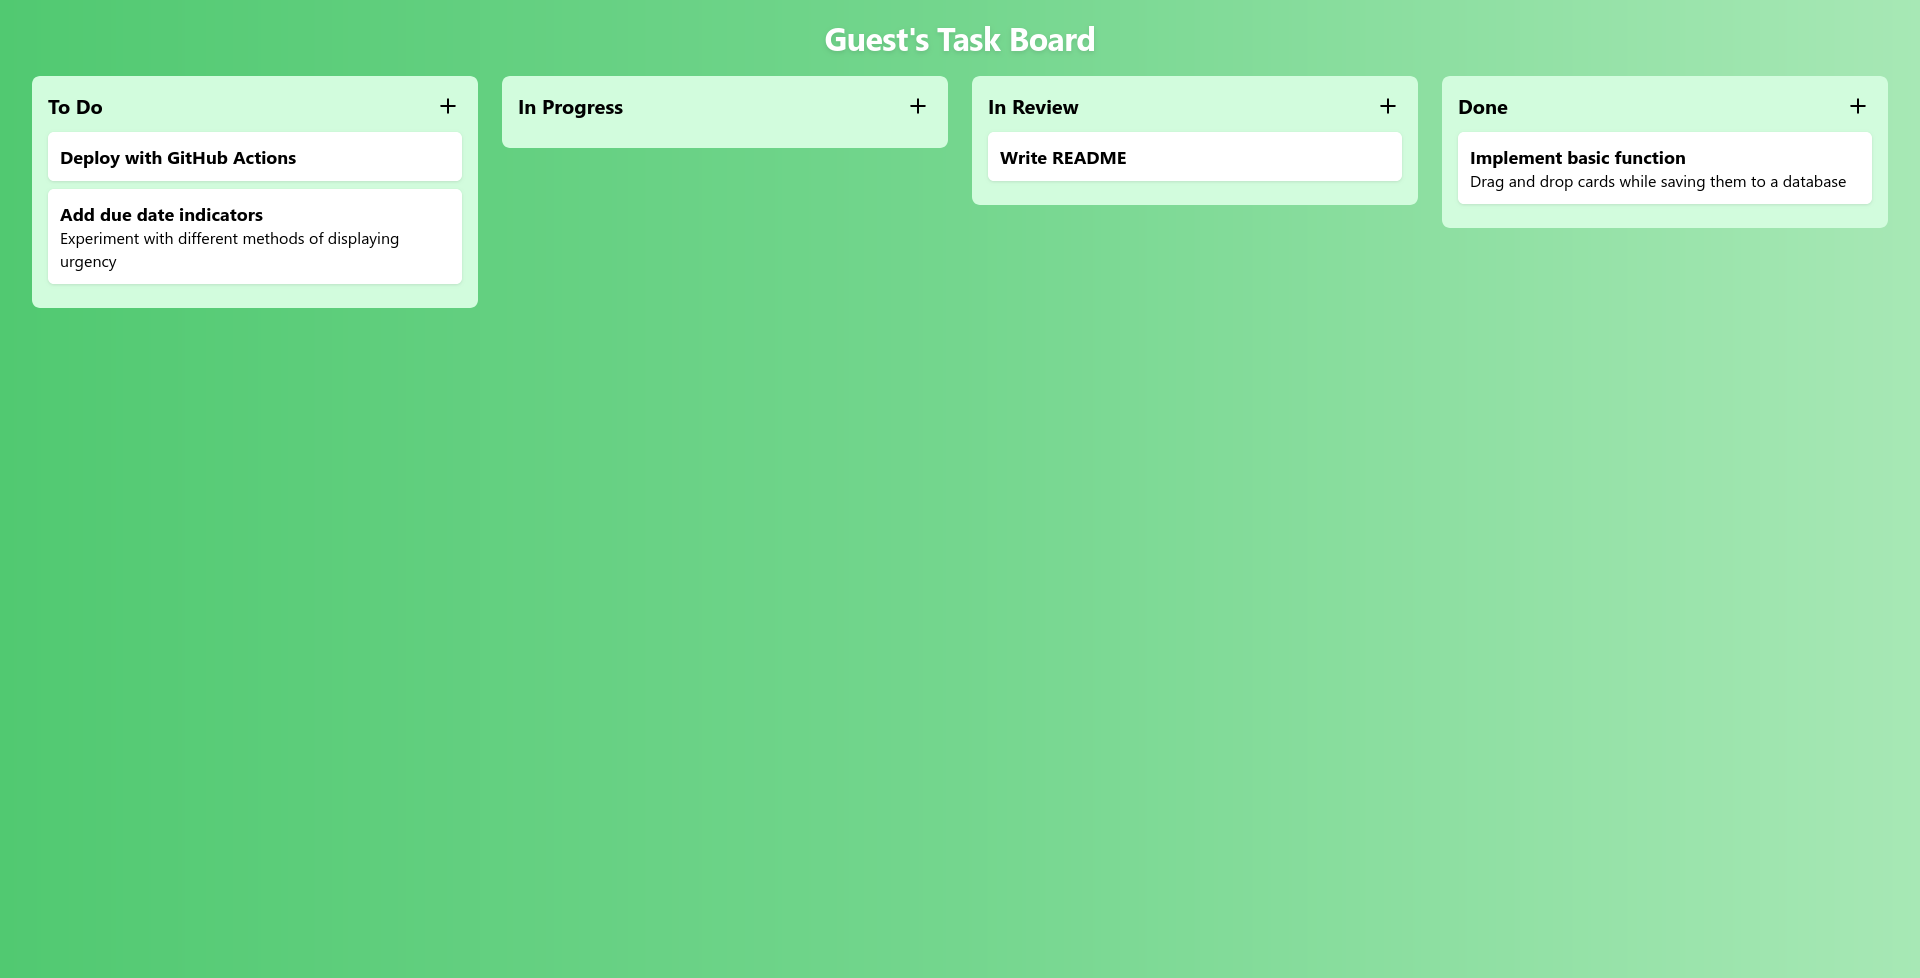
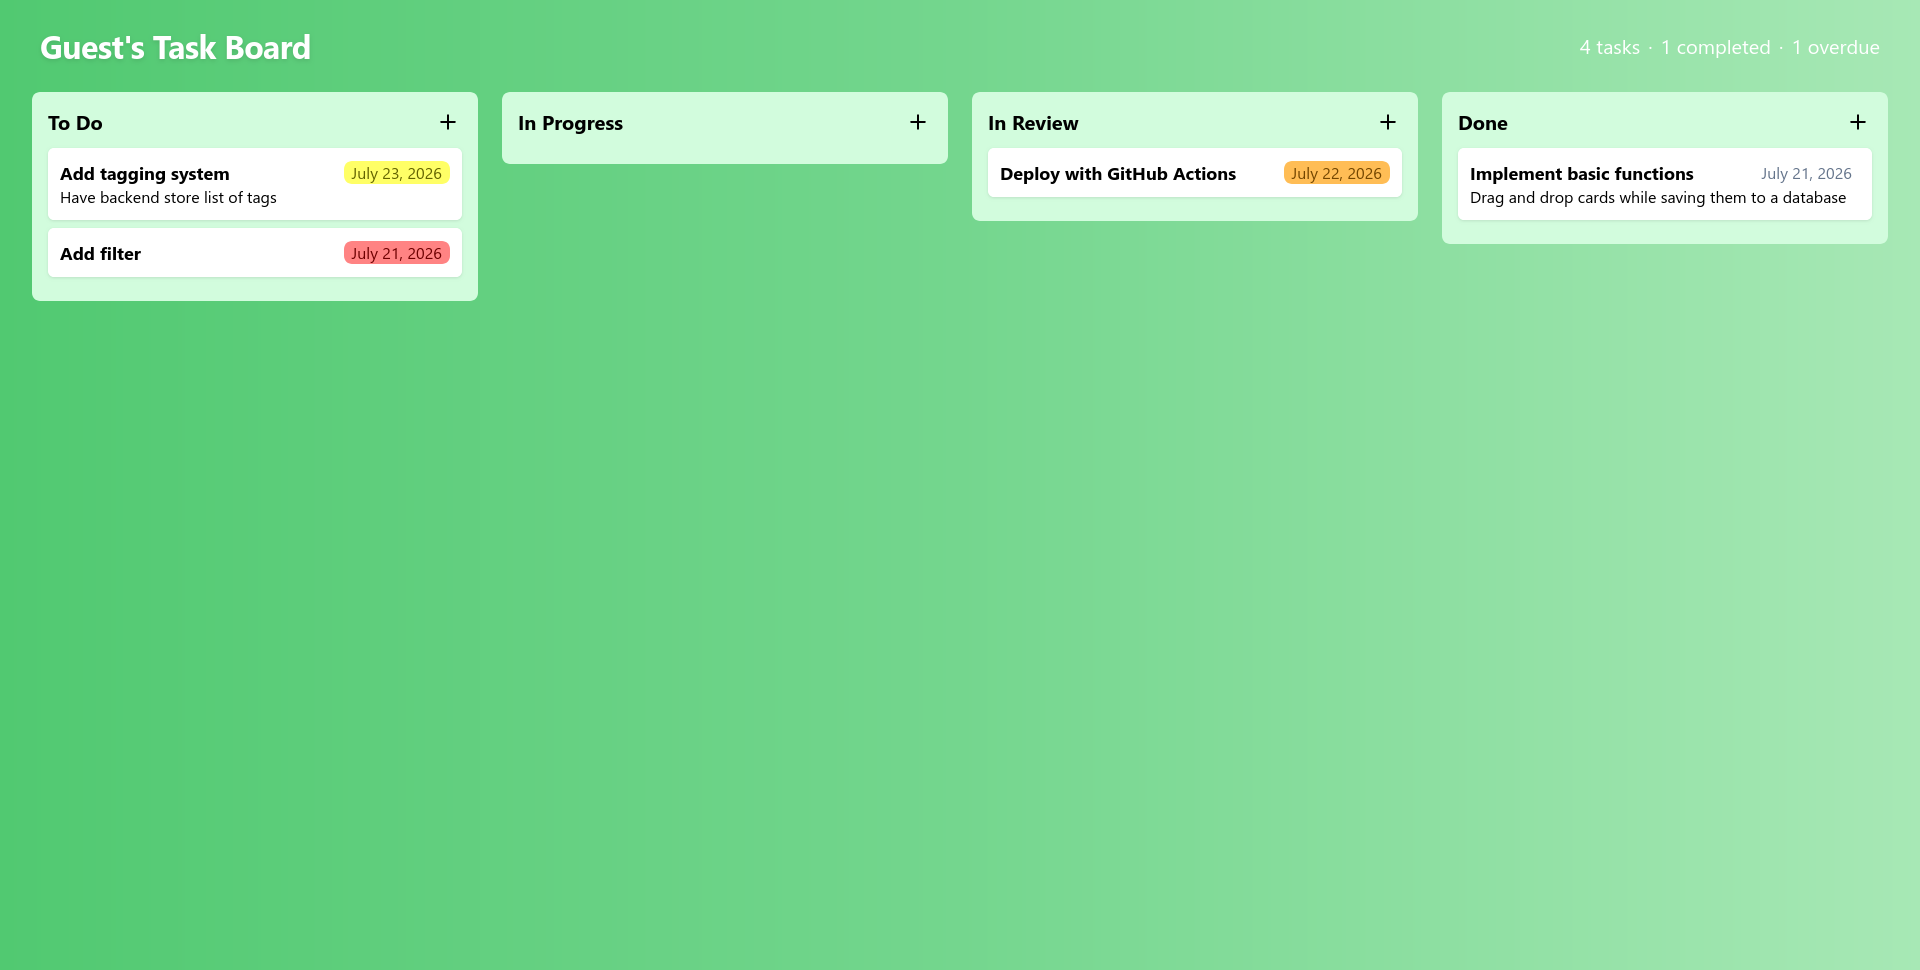
Added board summary

Changed region(s): [[0.0, 0.0309, 1.0, 0.3402]]

diff --git a/src/components/Board.tsx b/src/components/Board.tsx
@@ -12,11 +12,18 @@ import styles from "../css/Board.module.css";
  * But that doesn't make sense for now since no option to add or edit columns exists
 */
 const defaultCols = [
-  { id: "todo", title: "To Do" },
-  { id: "in-progress", title: "In Progress" },
-  { id: "in-review", title: "In Review" },
-  { id: "done", title: "Done" },
+	{ id: "todo", title: "To Do" },
+	{ id: "in-progress", title: "In Progress" },
+	{ id: "in-review", title: "In Review" },
+	{ id: "done", title: "Done" },
 ];
+// Find overdue tasks
+function isOverdue(dueDateStr: string): boolean {
+	const due = new Date(dueDateStr + "T00:00:00");
+	const today = new Date();
+	today.setHours(0, 0, 0, 0);
+	return due.getTime() < today.getTime();
+}
 
 export default function Board() {
 	const [activeCard, setActiveCard] = useState<Task | null>(null); // Task being acted upon
@@ -26,8 +33,16 @@ export default function Board() {
 	const [openPopover, setOpenPopover] = useState<string | null>(null); // Track if a popover is open
 	const [userId, setUserId] = useState<string | null>(null); // User's id as a string
 	const [layout, setLayout] = useState<"row" | "column">("row"); // For setting vertical or horizontal layout based on screen size
+	const boardRef = useRef<HTMLDivElement>(null); // For responsive board layout
+	
 
-	const boardRef = useRef<HTMLDivElement>(null);
+	// Calculate board summary
+	const totalTasks = Object.values(columns).reduce((sum, arr) => sum + arr.length, 0);
+	const completedTasks = (columns["done"] ?? []).length;
+	const overdueTasks = Object.entries(columns)
+		.filter(([status]) => status !== "done")
+		.flatMap(([, tasks]) => tasks)
+		.filter(t => t.due_date && isOverdue(t.due_date)).length;
 
 	// Move a card and update columns
 	const moveCard = useCallback((cardId: string, columnFromId: string, columnToId: string) => {
@@ -136,7 +151,6 @@ export default function Board() {
 		})();
 	}, []);
 
-
 	// Decide to render columns vertically or horizontally
 	useEffect(() => {
 		const el = boardRef.current;
@@ -152,7 +166,7 @@ export default function Board() {
 	// Show loading screen if loading
 	if (loading) return (
 		<div className={styles.loading}>
-		<div className={styles.spinner} />
+			<div className={styles.spinner} />
 		</div>
 	);
 	
@@ -170,7 +184,17 @@ export default function Board() {
 	// Show main content
 	return (
 		<>	
-			<h1 className={styles.title}>Guest's Task Board</h1>
+			<div className={styles.header}>
+				<h1 className={styles.title}>Guest's Task Board</h1>
+				<div className={styles.summary}>
+					{totalTasks} {totalTasks === 1 ? "task" : "tasks"}
+					<span className={styles.separator}>·</span>
+					{completedTasks} completed
+					<span className={styles.separator}>·</span>
+					{overdueTasks} overdue
+				</div>
+			</div>
+
 			<div ref={boardRef} className={styles.board} data-layout={layout} style={{ "--cols": defaultCols.length } as React.CSSProperties }>
 				
 				<DndContext onDragStart={handleDragStart} onDragEnd={handleDragEnd}>

diff --git a/src/css/Board.module.css b/src/css/Board.module.css
@@ -37,7 +37,31 @@ body {
 	text-align: center;
 	color: white;
 	font-size: 2rem;
-	margin: 1rem 0rem -0.5rem 0rem;
+	word-break: break-word;
+	margin: 0rem;
+}
+
+.header {
+	display: flex;
+	justify-content: space-between;
+	align-items: center;
+	padding: 1rem 2rem 0;
+	gap: 0.5rem;
+}
+
+@media (max-width: 800px) {
+	.header {
+		flex-direction: column;
+		align-items: center;
+	}
+}
+
+.summary {
+	font-size: 1.25rem;
+	color: white;
+	display: flex;
+	gap: 0.5rem;
+	flex-wrap: wrap;
 }
 
 .loading {

diff --git a/src/components/Card.tsx b/src/components/Card.tsx
@@ -20,8 +20,9 @@ function getDueLabel(dateStr: string): "today" | "tomorrow" | "yesterday" | null
 
 
 export default function Card({ id, status, title, description, due_date }: Task) {
-	const dueLabel = due_date ? getDueLabel(due_date) : null;
-	const { attributes, listeners, setNodeRef } = useDraggable({ id, data: { status } });
+	const dueLabel = status === "done" || !due_date ? null : getDueLabel(due_date); // Set due label if not done and has due date
+	const { attributes, listeners, setNodeRef } = useDraggable({ id, data: { status } }); // Make draggable
+
 	return (
 		<div ref={setNodeRef} className={styles.card} {...listeners} {...attributes}>
 			<div className={styles.titleRow}>

diff --git a/src/css/Card.module.css b/src/css/Card.module.css
@@ -23,6 +23,7 @@
 .title {
 	margin: 0rem;
 	font-size: 1.125rem;
+	word-break: break-word;
 }
 
 .titleRow {
@@ -30,6 +31,7 @@
 	justify-content: space-between;
 	align-items: center;
 	gap: 0.5rem;
+	min-width: 0;
 }
 
 .dueDate {

diff --git a/src/lib/types.ts b/src/lib/types.ts
@@ -3,6 +3,6 @@ export interface Task {
 	id: string;
 	title: string;
 	status: string;
-	description: string  | null;
+	description: string | null;
 	due_date: string | null;
 }

diff --git a/README.md b/README.md
@@ -17,6 +17,8 @@ Desktop | Mobile
     - Tasks due today have their due date highlighted in orange
     - Tasks due before today have their due date highlighted in red
 - Task persistence
+- Board summary
+    - Shows the total number of tasks, the number of completed tasks, and the number of non-completed overdue tasks
 - Responsive layout
     - Columns are displayed horizontally on larger screens in traditional kanban style
     - Columns are displayed vertically on smaller screens to better utilize the limited space